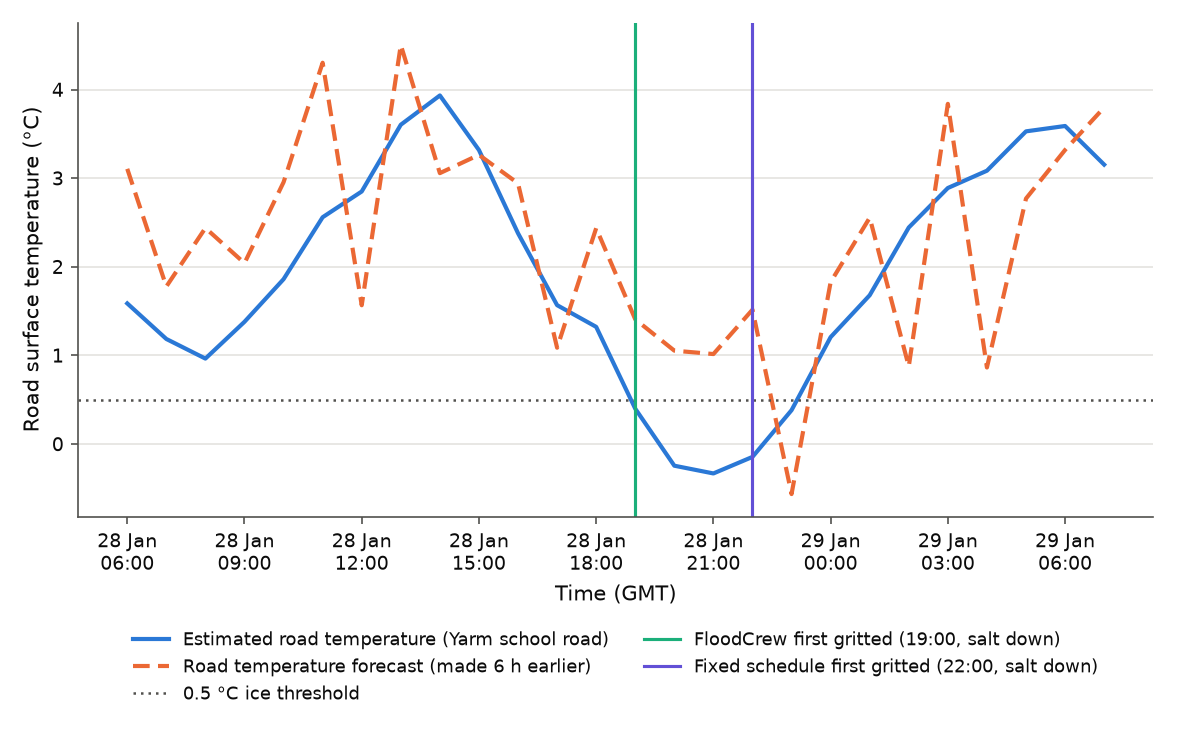
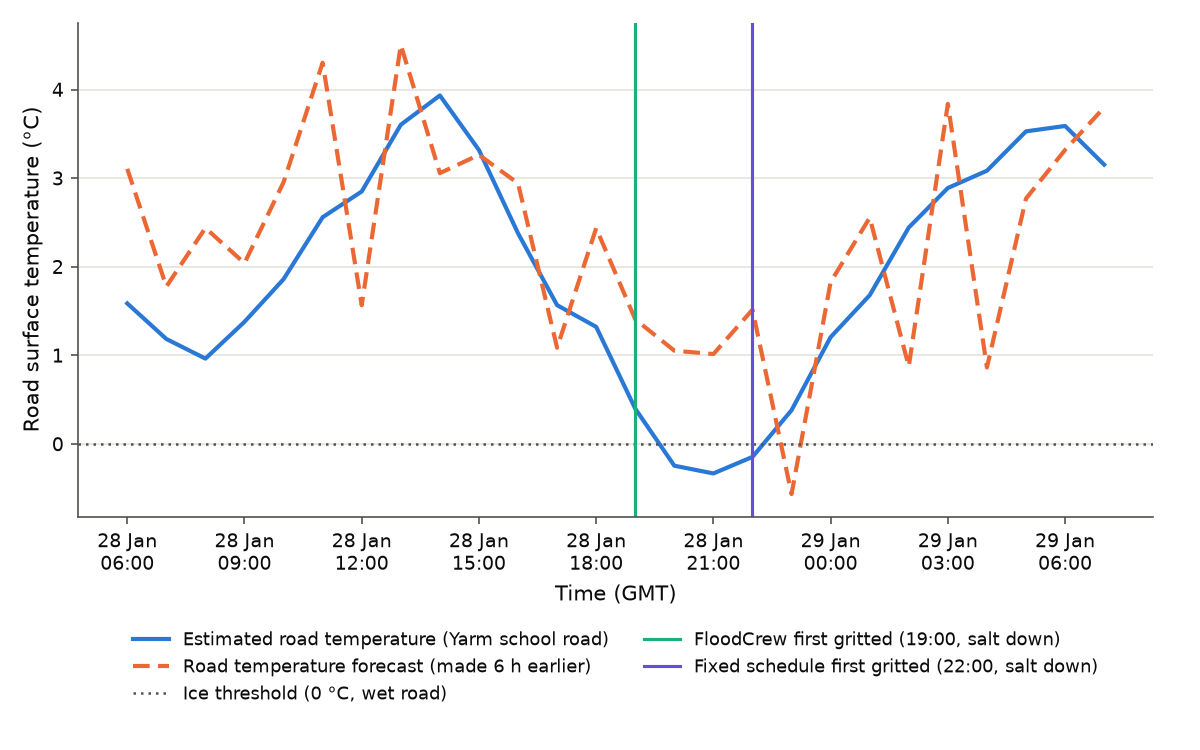
Draw the 0 C wet-road ice threshold on the ice night figure

Changed region(s): [[0.1542, 0.92, 0.37, 0.9507]]

diff --git a/python-ml/floodcrew/figures.py b/python-ml/floodcrew/figures.py
@@ -6,7 +6,7 @@
                    and the hour FloodCrew and current practice first sent a crew (3 crews, protected weight 2.0)
   importance.png   permutation importance of the Yarm boosting model on the test period (increase in MAE)
   ice_night.png    the night in the ice test period where FloodCrew gritted a protected route in time and the fixed
-                   schedule did not (2 gritters): estimated road temperature, the 6-hour forecast, the 0.5 C threshold,
+                   schedule did not (2 gritters): estimated road temperature, the 6-hour forecast, the 0 C ice threshold,
                    and when each policy first had salt down on that route
 """
 import argparse
@@ -100,7 +100,7 @@ def importance_figure(df, models, split, repeats=10):
     print("importance.png (MAE increase, cm):\n" + imp["mean"][::-1].round(2).to_string())
 
 
-def ice_figure(n_gritters=2, threshold=0.5):
+def ice_figure(n_gritters=2, threshold=0.0):
     W = ice.real()
     model, sigma, split, _ = ice.train(W)
     times = pd.to_datetime(pd.read_csv(ice.WEATHER_CSV)["time"])
@@ -125,7 +125,7 @@ def ice_figure(n_gritters=2, threshold=0.5):
     ax.plot(times[hours], W["road"][rid][a:b], color=ACTUAL, lw=2, label=f"Estimated road temperature ({name})")
     ax.plot(times[hours], [fc[t] for t in hours], color=FORECAST, lw=2, ls=(0, (4, 2)),
             label=f"Road temperature forecast (made {ice.HZ} h earlier)")
-    ax.axhline(threshold, color=MUTED, lw=1.2, ls=(0, (1, 2)), label=f"{threshold} \u00b0C ice threshold")
+    ax.axhline(threshold, color=MUTED, lw=1.2, ls=(0, (1, 2)), label="Ice threshold (0 \u00b0C, wet road)")
     for p, colour, label in [("floodcrew", FLOODCREW, "FloodCrew"), ("current_practice", PRACTICE, "Fixed schedule")]:
         if first[p] is not None:
             ax.axvline(times[first[p]], color=colour, lw=1.5, label=f"{label} first gritted ({times[first[p]]:%H:%M}, salt down)")

diff --git a/python-ml/README.md b/python-ml/README.md
@@ -114,7 +114,7 @@ Road temperature 6 h ahead: MAE 0.84 °C (persistence 1.92 °C), the same for ev
   is shuffled). The upstream level at Low Moor matters most (+7.3 cm), then the current level (+3.6 cm).
 
 - `ice_night.png`: 28 Jan 2026 on the Yarm school road (2 gritters), the protected-route ice event that FloodCrew
-  gritted in time and the fixed schedule did not: estimated road temperature, the 6-hour forecast, a 0.5 °C line, and
+  gritted in time and the fixed schedule did not: estimated road temperature, the 6-hour forecast, the 0 °C ice threshold (wet road), and
   when each policy first had salt down (FloodCrew 19:00, before ice formed at 20:00; fixed schedule 22:00).
 
 ![Largest storm at Yarm](docs/figures/yarm_storm.png)
